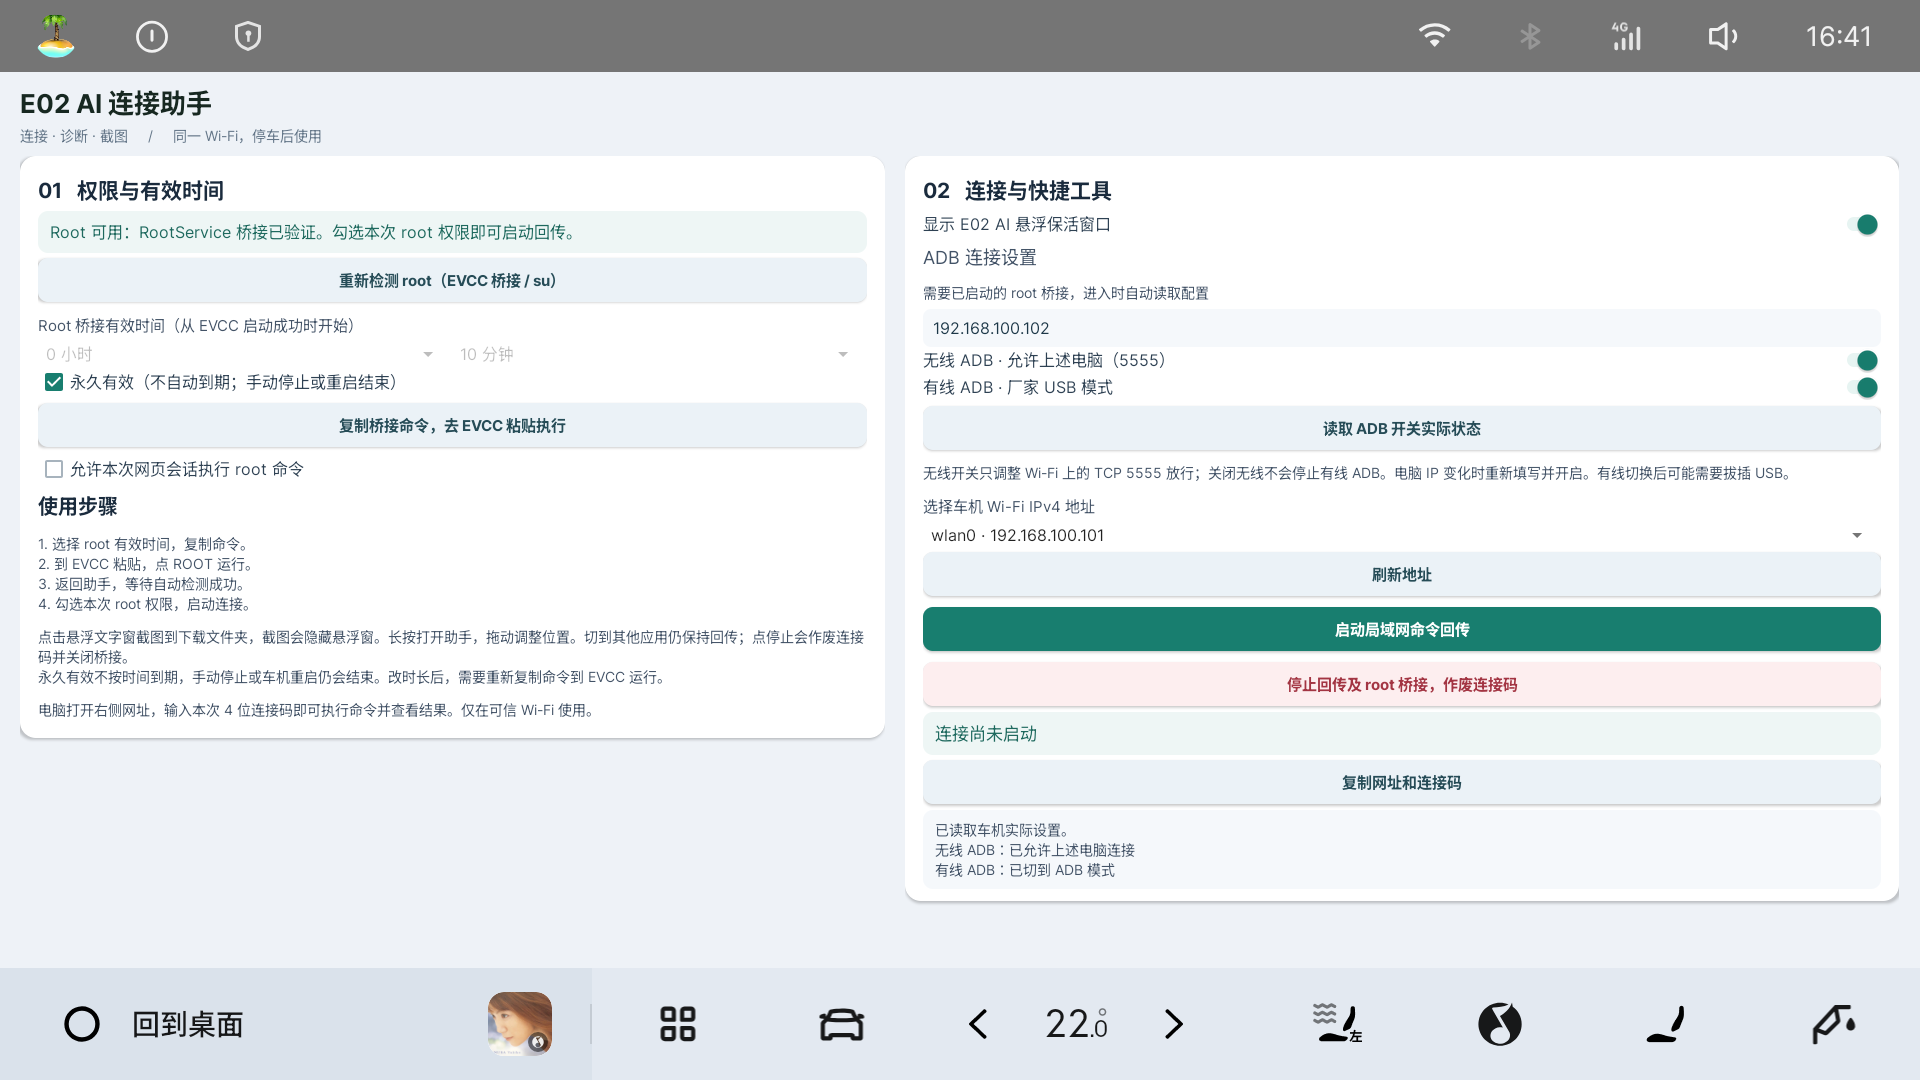
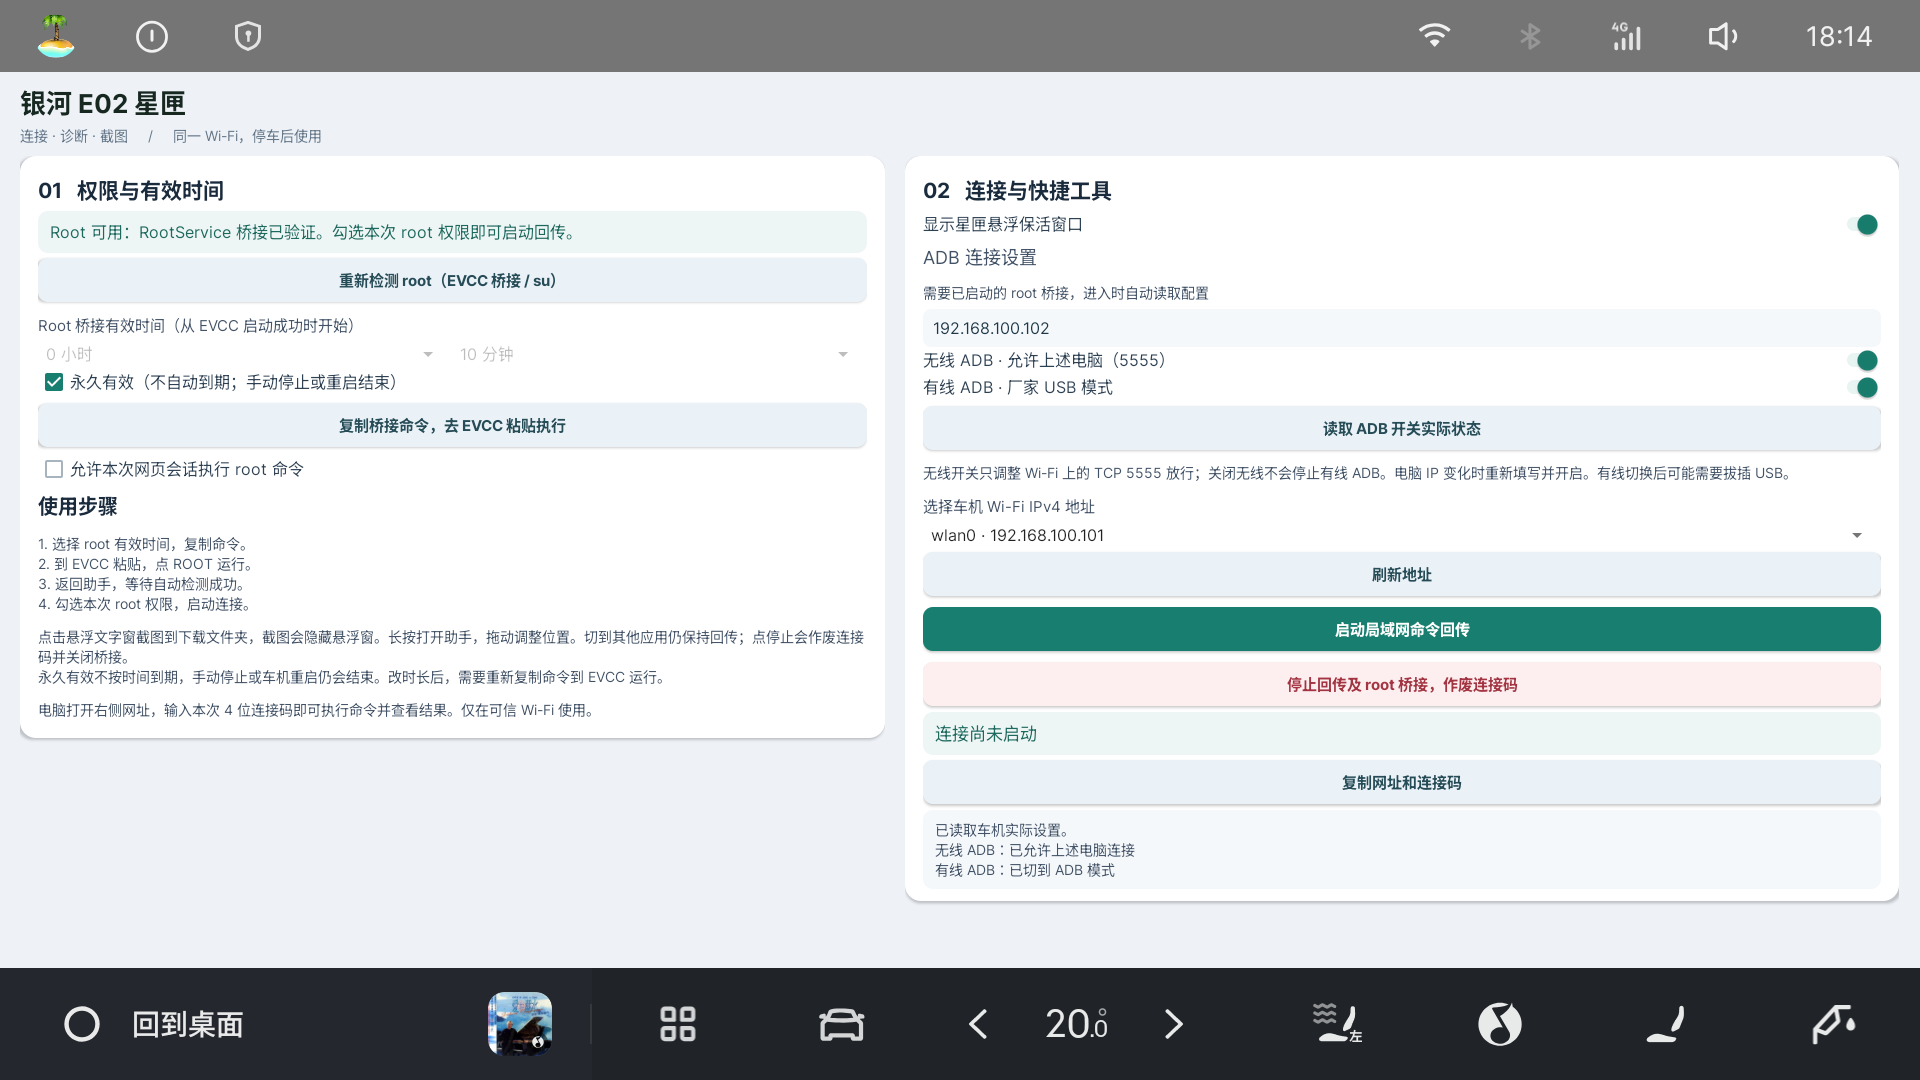
Document actual EVCC terminal workflow and refresh vehicle screenshots

Changed region(s): [[0.0, 0.8861, 1.0, 1.0], [0.0, 0.0611, 0.125, 0.1222], [0.5, 0.1833, 0.5938, 0.2139]]

diff --git a/build.py b/build.py
@@ -55,7 +55,7 @@ def main():
         run(executable(java,'keytool'),'-genkeypair','-keystore',key,'-storepass',password,'-alias','galaxy','-keyalg','RSA','-keysize','2048','-validity','3650','-dname','CN=Galaxy E02 Tools Development','-storetype','PKCS12')
     dist = ROOT/'dist'
     dist.mkdir(exist_ok=True)
-    apk = dist/'Galaxy-E02-tools-1.5.1.apk'
+    apk = dist/'银河E02星匣-v1.5.1.apk'
     run(executable(java,'java'),'-jar',tools/'lib/apksigner.jar','sign','--ks',key,'--ks-pass','pass:'+password,'--ks-key-alias','galaxy','--min-sdk-version','28','--v4-signing-enabled','false','--out',apk,aligned)
     run(executable(java,'java'),'-jar',tools/'lib/apksigner.jar','verify','--verbose',apk)
     run(executable(tools,'zipalign'),'-c','4',apk)

diff --git a/docs/使用指南.md b/docs/使用指南.md
@@ -9,16 +9,23 @@
 1. 在车机打开 **银河 E02 星匣**。
 2. 选择 root 有效时间，例如 **0 小时、10 分钟**。需要一直使用，可勾选 **永久有效**。
 3. 点击 **复制桥接命令，去 EVCC 粘贴执行**。
-4. 到 EVCC 的命令面板粘贴，点击 **ROOT 执行**。
-5. 返回助手，等待 root 检测成功。需要在电脑执行 root 命令时，勾选 **允许本次网页会话执行 root 命令**。
-6. 点击 **启动局域网命令回传**。
-7. 在电脑浏览器打开显示的网址，输入本次四位连接码，点击 **验证连接**。
+4. 打开 **EVCC**，点击顶部的 **终端**。
+5. 找到终端页面左下的 **自定义命令**。这里有两个输入框：上面是 **命令名称**，下面是 **命令**。将复制的完整内容粘贴到下面的 **命令** 输入框。
+6. 点击输入框下方的 **Root 执行**，不是旁边的「ADB 执行」。本次无需点击「保存命令」。
+7. 返回 **银河 E02 星匣**，点击左侧的 **重新检测 root（EVCC 桥接 / su）**。
+8. 显示 **Root 可用** 后，若需要电脑执行 root 命令，勾选 **允许本次网页会话执行 root 命令**。
+9. 点击 **启动局域网命令回传**。
+10. 在电脑浏览器打开显示的网址，输入本次四位连接码，点击 **验证连接**。
+
+操作路径：**EVCC → 终端 → 自定义命令 → 在「命令」框粘贴 → Root 执行 → 返回银河 E02 星匣 → 重新检测 root**。
+
+以上入口已在 EVCC v3.2.11 实机界面核对。EVCC 终端左上应显示 **RootService 已连接 (root)**；若未连接，先点击旁边的 **重连**，确认连接后再执行。
 
 网页中选择执行权限、输入命令，再点击 **执行并返回结果**。命令直接填写，不加 `adb shell`。下方会显示输出、错误信息和退出码，也可以保存为 TXT。
 
 只使用普通应用权限时，可以直接启动回传。截图和 ADB 开关需要 root。
 
-下图为更名前的 v1.5 实车界面，按钮操作相同。
+下图为当前 v1.5.1 实车界面。
 
 ![车机界面](images/car-main.png)
 
@@ -37,6 +44,8 @@ adb devices
 将「车机IP」替换为助手里显示的实际地址。列表显示 `device` 即已连接。
 
 电脑或车机地址变化后，需要重新填写并开启。关闭无线开关不影响有线 ADB。
+
+无线开关会处理车机防火墙的 TCP 5555 放行，只允许填写的电脑 IP 连接，不会关闭整个防火墙。热点或路由器自身的设备隔离仍可能导致无法连接。
 
 当前基线按同一 Wi-Fi 连接使用；车机热点、电脑热点及其他网络方式的统一适配将在后续版本完善。
 
@@ -60,7 +69,7 @@ adb devices
 
 | 情况 | 处理方法 |
 | --- | --- |
-| 显示 root 不可用 | 重新复制命令，到 EVCC 点击 ROOT 执行，再返回助手 |
+| 显示 root 不可用 | 重新复制命令，在 EVCC → 终端 → 自定义命令的「命令」框粘贴，点击 Root 执行；返回星匣后点击重新检测 root |
 | 修改了有效时间 | 重新复制命令并在 EVCC 执行后才会生效 |
 | 网页打不开 | 检查电脑和车机是否在同一 Wi-Fi，助手是否仍在运行，网址是否为最新地址 |
 | 四位码无效 | 使用车机当前显示的连接码；停止或重新启动后旧码失效 |
@@ -68,3 +77,7 @@ adb devices
 | 截图失败 | 重新确认 root 授权有效，并检查下载目录是否有可用空间 |
 
 使用结束后，点击 **停止回传及 root 桥接，作废连接码**。这会结束命令回传和 root 授权，但不会自动关闭已经开启的 ADB；需要时分别关闭 ADB 开关。
+
+## 应用列表仍显示旧名
+
+覆盖安装后，Flyme Auto 桌面可能暂时保留旧名字。应用内应显示「银河 E02 星匣」。桌面进程重新启动后会刷新名称；不需要清除桌面数据或卸载软件。

diff --git a/README.md b/README.md
@@ -6,15 +6,19 @@
 
 已在 **2025 款星舰 7 · Flyme Auto 2.5.0 · Android 9** 上使用验证。当前版本 **1.5.1**。
 
-**[下载安装包](https://github.com/BerryFuwawa/Galaxy-E02-tools/releases/download/v1.5.1/Galaxy-E02-tools-1.5.1.apk)** · [使用指南](docs/使用指南.md)
+**[下载安装包](https://github.com/BerryFuwawa/Galaxy-E02-tools/releases/download/v1.5.1/%E9%93%B6%E6%B2%B3E02%E6%98%9F%E5%8C%A3-v1.5.1.apk)** · [使用指南](docs/使用指南.md)
 
 ## 软件截图
 
 ### 车机主界面
 
-以下为 v1.5 实车截图。v1.5.1 更名为「银河 E02 星匣」，功能相同。
+v1.5.1 实车截图。
 
 ![车机主界面](docs/images/car-main.png)
+
+### 车机应用列表
+
+![车机应用列表](docs/images/app-library.png)
 
 ### 电脑网页终端
 
@@ -32,9 +36,10 @@
 
 1. 安装软件，让电脑和车机连接同一个 Wi-Fi，允许悬浮窗权限。
 2. 选择 root 使用时间，点击 **复制桥接命令，去 EVCC 粘贴执行**。
-3. 打开 EVCC，粘贴命令并点击 **ROOT 执行**，然后返回助手。
-4. 检测成功后，按需勾选 **允许本次网页会话执行 root 命令**，点击 **启动局域网命令回传**。
-5. 在电脑浏览器打开软件显示的网址，输入四位连接码，即可执行命令。
+3. 打开 **EVCC → 终端**，在左下 **自定义命令** 的 **命令** 输入框粘贴，点击 **Root 执行**。
+4. 返回 **银河 E02 星匣**，点击 **重新检测 root（EVCC 桥接 / su）**。
+5. 检测成功后，按需勾选 **允许本次网页会话执行 root 命令**，点击 **启动局域网命令回传**。
+6. 在电脑浏览器打开软件显示的网址，输入四位连接码，即可执行命令。
 
 详细操作见 [使用指南](docs/使用指南.md)。软件需要已有的 root 执行工具；安装本软件不会自动获得 root。
 
@@ -48,7 +53,7 @@
 
 ## 获取软件
 
-在 [版本下载页](https://github.com/BerryFuwawa/Galaxy-E02-tools/releases/tag/v1.5.1) 下载 APK 并安装到车机。桌面图标名称为「银河 E02 星匣」。已有同签名版本可覆盖安装。
+在 [版本下载页](https://github.com/BerryFuwawa/Galaxy-E02-tools/releases/tag/v1.5.1) 下载 **银河E02星匣-v1.5.1.apk** 并安装到车机。桌面图标名称为「银河 E02 星匣」。已有同签名版本可覆盖安装。
 
 需要自行构建，见 [编译说明](docs/编译说明.md)。
 

diff --git a/docs/编译说明.md b/docs/编译说明.md
@@ -14,7 +14,7 @@ python build.py
 python build.py --java-home "<JDK17目录>" --android-jar "<SDK>/platforms/android-28/android.jar" --build-tools "<SDK>/build-tools/34.0.0"
 ```
 
-APK 输出到 `dist/Galaxy-E02-tools-1.5.1.apk`。首次编译会生成 `.local/development.p12`，请保留此签名文件用于更新；不同签名的 APK 无法直接覆盖安装。
+APK 输出到 `dist/银河E02星匣-v1.5.1.apk`。首次编译会生成 `.local/development.p12`，请保留此签名文件用于更新；不同签名的 APK 无法直接覆盖安装。
 
 ## 桌面测试
 
